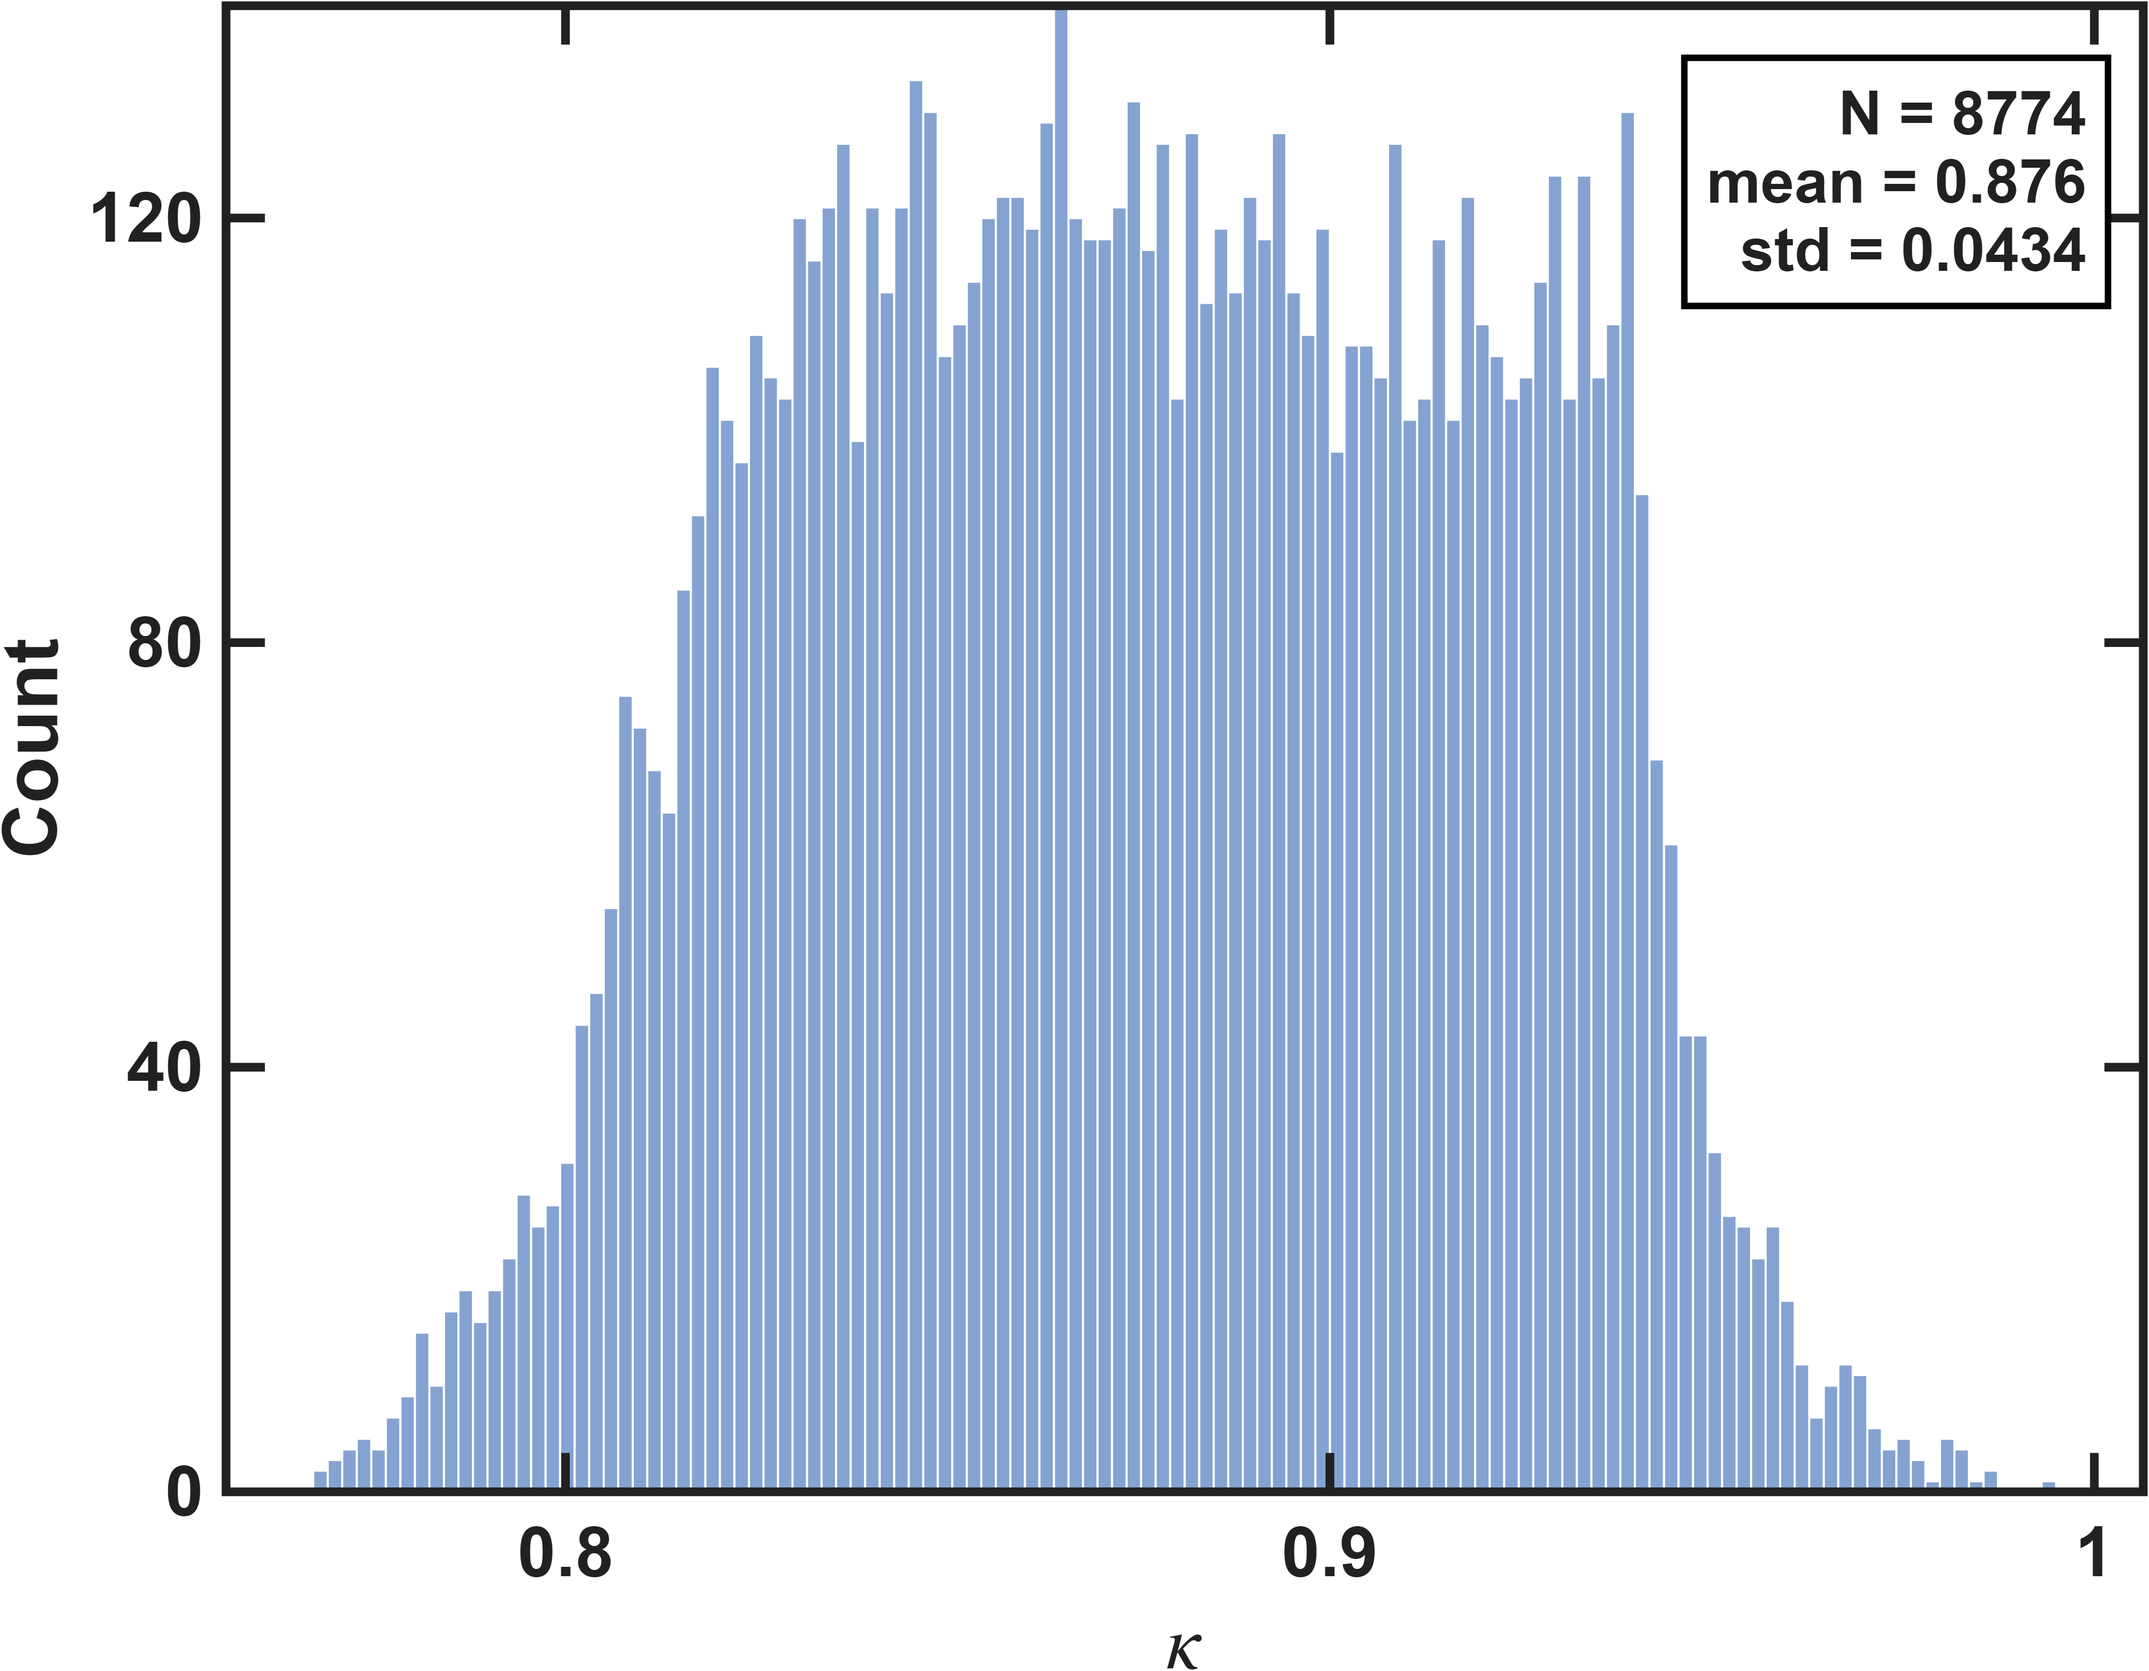
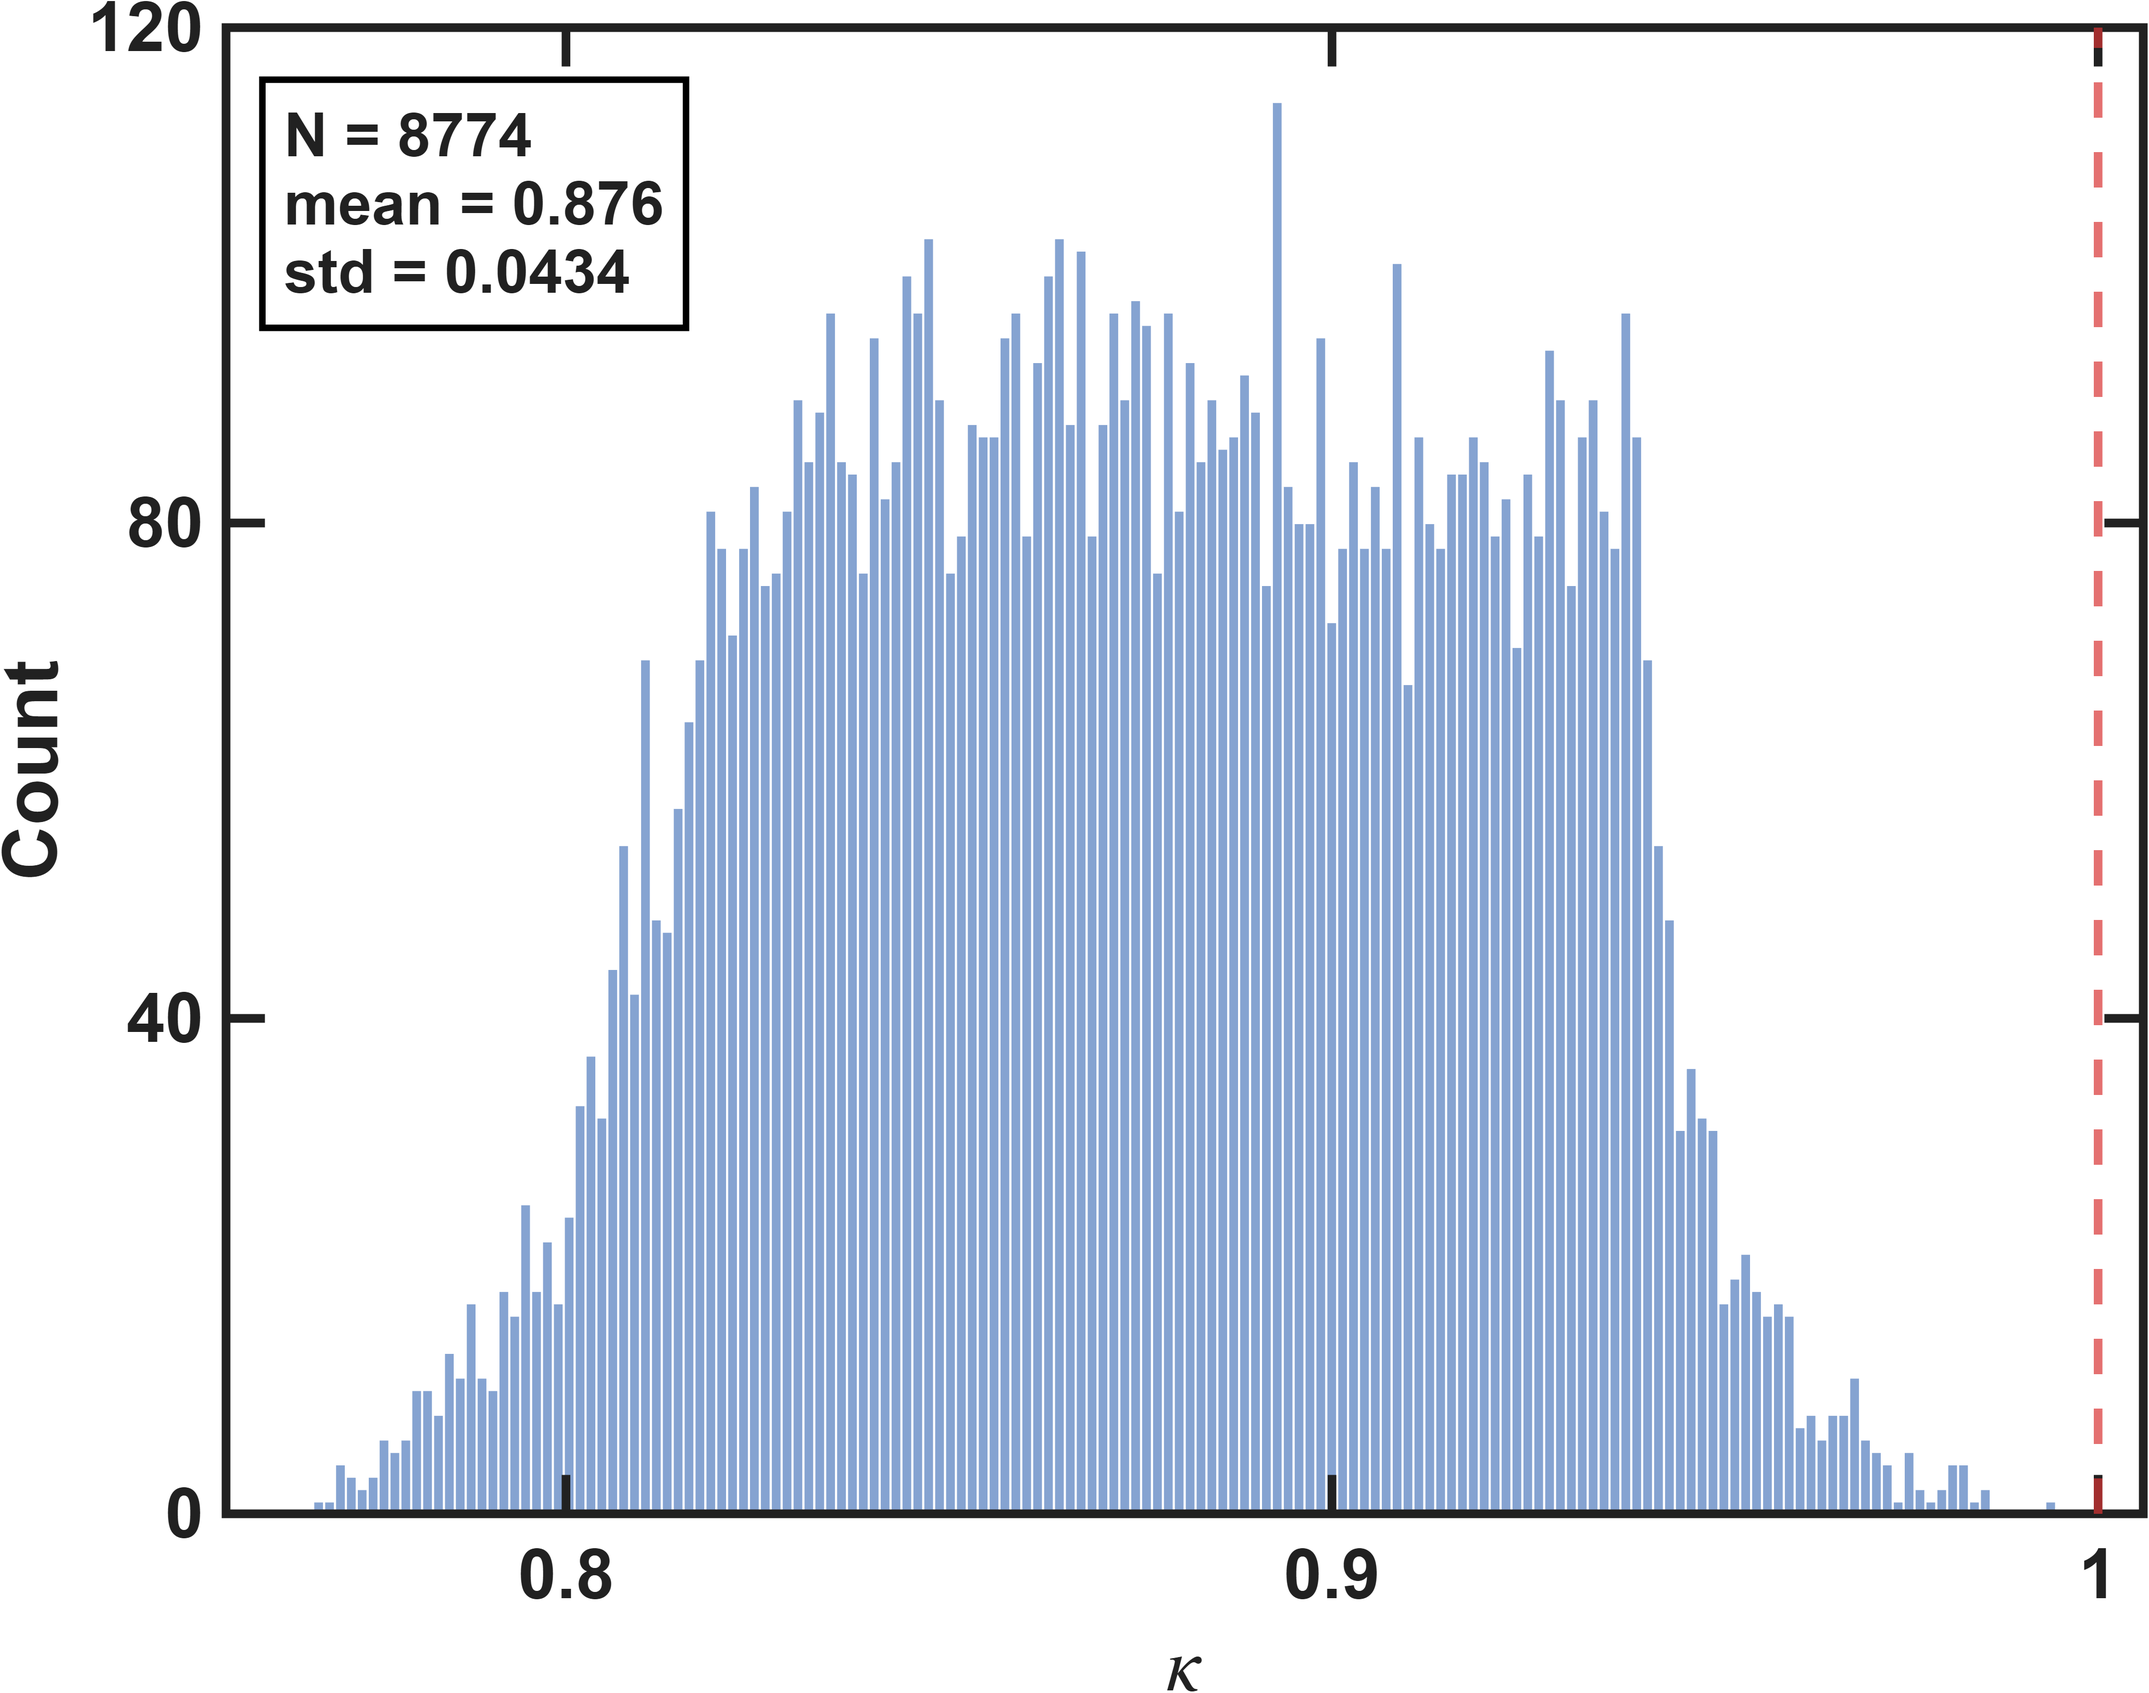
index histograms: move stat box off the bars, add marker lines, finer bins
- stat box -> top-left so it no longer overlaps the tall right-side C bars
- C plot: dashed vertical line at the mean; kappa plot: dashed line at kappa=1
  (isotropy ideal), with the x-limit nudged so that line sits inside the frame
- bins 120 -> 160 (finer, ~matching the field-error histogram)

diff --git a/magnetic_sim/ANSYS/main/matlab/long2016_hexapole_halfcut/Calibration_using_FEM_modeling/no_fix_dir/code/plot/plot_gain_iso_index.m b/magnetic_sim/ANSYS/main/matlab/long2016_hexapole_halfcut/Calibration_using_FEM_modeling/no_fix_dir/code/plot/plot_gain_iso_index.m
@@ -4,7 +4,7 @@ function plot_gain_iso_index()
 %   依 singular_value.pdf 定義：
 %     C(p)     = ∏σ_k = σ₁σ₂σ₃   （flux-generating ellipsoid 體積，(mT/A)³）
 %     kappa(p) = σ_min/σ_max = σ₃/σ₁   （isotropy，≤1、→1 等向）
-%   直方圖（風格同 err-hist 圖）：橫軸=C / kappa 值、縱軸=Count、右上黑框標 N/mean/std（NB=120 細長條、鋼藍白邊）。
+%   直方圖（風格同 err-hist 圖）：橫軸=C / kappa 值、縱軸=Count、左上黑框標 N/mean/std、紅虛線（C→mean、kappa→1）；NB=160 細長條、鋼藍白邊。
 %   輸出：fix_dir/figures/{gain_index,iso_index}.png、no_fix_dir/figures/{gain_index,iso_index}.png。
 %   ★ 兩模型都在 actuator 框同一組節點算（R_act·dhat=Pc_base）：fix 電荷=Pc_base（在軸）、bias=make_Pc(ê)（離軸）。
 
@@ -41,23 +41,28 @@ function plot_gain_iso_index()
     fixfig = fullfile(calroot,'fix_dir','figures');
     nofig  = fullfile(nofix,'figures');
     Clab = '$\mathcal{C}\;[(\mathrm{mT/A})^{3}]$';
-    render_hist(Cvf,  Clab,       '(mT/A)^3', fullfile(fixfig,'gain_index.png'));
-    render_hist(kapf, '$\kappa$', '',         fullfile(fixfig,'iso_index.png'));
-    render_hist(Cvb,  Clab,       '(mT/A)^3', fullfile(nofig, 'gain_index.png'));
-    render_hist(kapb, '$\kappa$', '',         fullfile(nofig, 'iso_index.png'));
+    render_hist(Cvf,  Clab,       '(mT/A)^3', mean(Cvf), fullfile(fixfig,'gain_index.png'));   % C→mean 線
+    render_hist(kapf, '$\kappa$', '',         1,         fullfile(fixfig,'iso_index.png'));    % kappa→1 線
+    render_hist(Cvb,  Clab,       '(mT/A)^3', mean(Cvb), fullfile(nofig, 'gain_index.png'));
+    render_hist(kapb, '$\kappa$', '',         1,         fullfile(nofig, 'iso_index.png'));
 
     fprintf('\n=== 逐節點 C / kappa（R≤150µm 球 %d 節點）===\n', npts);
     fprintf('mean C     : fix=%.4g  bias=%.4g (mT/A)^3\n', mean(Cvf), mean(Cvb));
     fprintf('mean kappa : fix=%.4f  bias=%.4f\n',           mean(kapf), mean(kapb));
 end
 
-function render_hist(y, xlab, sunit, out)
-% 直方圖（風格比照 plot_charge_field_err_hist）：鋼藍+白邊細長條、右上黑框註記、Count 縱軸、無 mean 線。
+function render_hist(y, xlab, sunit, vline, out)
+% 直方圖（風格比照 plot_charge_field_err_hist）：鋼藍+白邊細長條、左上黑框註記、Count 縱軸、vline 紅虛線。
     n = numel(y);  m = mean(y);  s = std(y);
-    NB = 120;                                                       % bin 數（細；參考 err-hist 圖 ~160 格）
+    NB = 160;                                                       % bin 數（細；參考 err-hist 圖 ~160 格）
     fig = figure('Color','w','Position',[100 100 760 560]);
     ax  = axes(fig);
     histogram(ax, y, NB, 'FaceColor',[0.20 0.40 0.70], 'EdgeColor','w');
+    xl = xlim(ax);                                                  % 若 vline 貼/超右界 → 延伸右界讓虛線落在框內
+    if vline >= xl(2) - 0.005*(xl(2)-xl(1))
+        xlim(ax, [xl(1), vline + 0.03*(xl(2)-xl(1))]);
+    end
+    xline(ax, vline, '--', 'Color',[0.85 0.20 0.20], 'LineWidth', 2);   % 標線（C→mean、kappa→1）
     set(ax,'FontSize',16,'FontWeight','bold','LineWidth',2,'TickLength',[.018 .018]);
     box(ax,'on'); grid(ax,'off');
     xt = get(ax,'XTick'); set(ax,'XTick',xt(1:2:end));
@@ -70,7 +75,7 @@ function render_hist(y, xlab, sunit, out)
     else
         txt = sprintf('N = %d\nmean = %.4g %s\nstd = %.4g %s', n, m, sunit, s, sunit);
     end
-    text(ax, 0.97, 0.95, txt, 'Units','normalized', 'HorizontalAlignment','right', ...
+    text(ax, 0.03, 0.95, txt, 'Units','normalized', 'HorizontalAlignment','left', ...
          'VerticalAlignment','top', 'FontSize',14, 'FontWeight','bold', ...
          'BackgroundColor','w', 'EdgeColor','k', 'LineWidth',1.5, 'Margin',5);
     ax.Toolbar.Visible = 'off';
